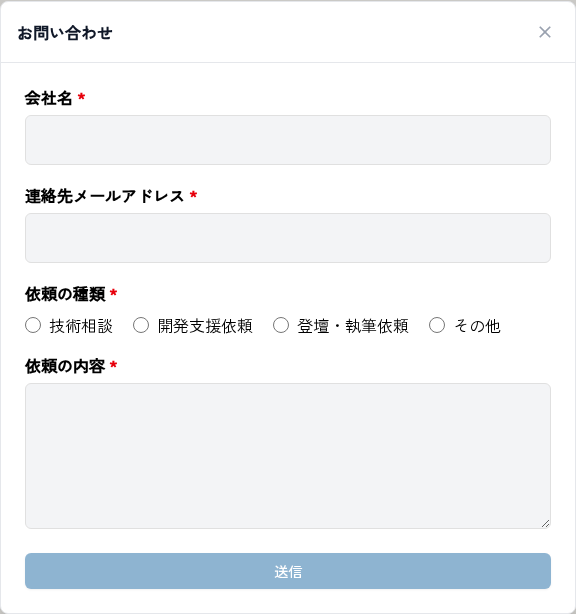
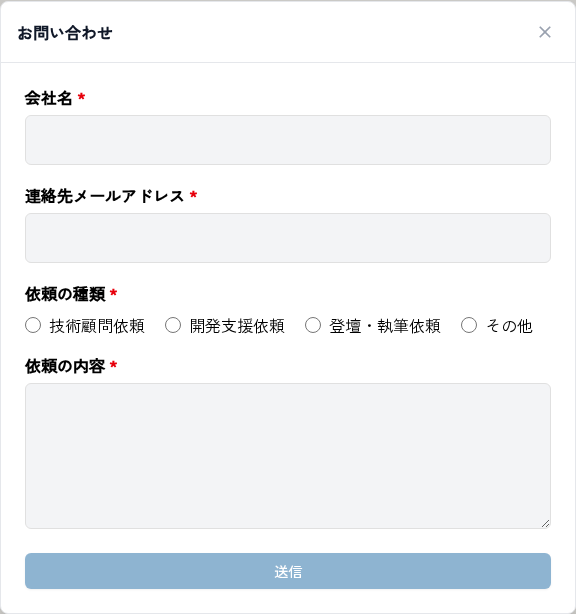
fix: replace contact consultation option (#1406)

Pull request: fix: replace contact consultation option
## Summary

- Replace the contact form request type `技術相談` with `技術顧問依頼` in the shared contact form option list.
- Update schema, route, Playwright, and VRT expectations so the rendered label and submitted value match the new option.
- Refresh the affected contact modal VRT snapshot.

Linear: HIR-83

## Validation

- `pnpm build`
- `pnpm test src/components/contactFormSchema.test.ts src/app/form/route.test.ts`
- `pnpm exec playwright test tests/contact-form.test.ts --project=chrome-routes`
- `pnpm typecheck`
- `pnpm fmt:check`
- Docker VRT: `pnpm exec playwright test tests/vrt-components.test.ts -g "Contact modal form" --project=chrome-vrt-components`


<!-- This is an auto-generated comment: release notes by coderabbit.ai -->

## Summary by CodeRabbit

* **Bug Fixes**
  * Updated the contact form’s request type label from「技術相談」to「技術顧問依頼」across the form, validation, and related screens.
  * Submission and preview checks now reflect the new label, keeping the displayed option consistent throughout the contact flow.
  * Visual and interaction checks were refreshed to match the updated wording.

<!-- end of auto-generated comment: release notes by coderabbit.ai -->

Changed region(s): [[0.2812, 0.4951, 0.9375, 0.557], [0.125, 0.4951, 0.25, 0.557]]

diff --git a/tests/contact-form.test.ts b/tests/contact-form.test.ts
@@ -38,7 +38,7 @@ test.describe("Contact form", () => {
     expect(requests[0]).toContain('name="company"');
     expect(requests[0]).toContain("Example Inc.");
     expect(requests[0]).toContain('name="content"');
-    expect(requests[0]).toContain("技術相談");
+    expect(requests[0]).toContain("技術顧問依頼");
     expect(requests[0]).toContain('name="comment"');
     expect(requests[0]).toContain(
       "Next.js のパフォーマンス改善について相談したいです。",
@@ -115,7 +115,7 @@ test.describe("Contact form", () => {
     const dialog = page.getByRole("dialog", { name: "お問い合わせ" });
     await dialog.getByLabel(/会社名/).fill("Example Inc.");
     await dialog.getByLabel(/連絡先メールアドレス/).fill("not-an-email");
-    await dialog.getByLabel(/技術相談/).check();
+    await dialog.getByLabel(/技術顧問依頼/).check();
     await dialog
       .getByLabel(/依頼の内容/)
       .fill("Next.js のパフォーマンス改善について相談したいです。");
@@ -134,11 +134,11 @@ test.describe("Contact form", () => {
     const dialog = page.getByRole("dialog", { name: "お問い合わせ" });
     const submitButton = dialog.getByRole("button", { name: "送信" });
 
-    await expect(dialog.getByLabel(/技術相談/)).toBeVisible();
+    await expect(dialog.getByLabel(/技術顧問依頼/)).toBeVisible();
     await expect(dialog.getByLabel(/開発支援依頼/)).toBeVisible();
     await expect(dialog.getByLabel(/登壇・執筆依頼/)).toBeVisible();
     await expect(dialog.getByLabel(/その他/)).toBeVisible();
-    await expect(dialog.getByLabel(/技術顧問依頼/)).toHaveCount(0);
+    await expect(dialog.getByLabel(/技術相談/)).toHaveCount(0);
     await expect(dialog.locator("legend", { hasText: "依頼の種類" })).toHaveCSS(
       "margin-bottom",
       "12px",
@@ -152,7 +152,7 @@ test.describe("Contact form", () => {
     await dialog.getByLabel(/連絡先メールアドレス/).fill("not-an-email");
     await expect(submitButton).toBeDisabled();
 
-    await dialog.getByLabel(/技術相談/).check();
+    await dialog.getByLabel(/技術顧問依頼/).check();
     await expect(submitButton).toBeDisabled();
 
     await dialog
@@ -246,7 +246,7 @@ async function openAndFillContactForm(page: Page) {
 
   await dialog.getByLabel(/会社名/).fill("Example Inc.");
   await dialog.getByLabel(/連絡先メールアドレス/).fill("[email redacted]");
-  await dialog.getByLabel(/技術相談/).check();
+  await dialog.getByLabel(/技術顧問依頼/).check();
   await dialog
     .getByLabel(/依頼の内容/)
     .fill("Next.js のパフォーマンス改善について相談したいです。");

diff --git a/src/components/contactFormSchema.test.ts b/src/components/contactFormSchema.test.ts
@@ -9,14 +9,14 @@ describe("contactFormSchema", () => {
     const result = contactFormSchema.safeParse({
       email: "[email redacted]",
       company: "Example Inc.",
-      content: "技術相談",
+      content: "技術顧問依頼",
       comment: "Next.js のパフォーマンス改善について相談したいです。",
     });
 
     expect(result.success).toBe(true);
   });
 
-  it.each(["技術相談", "開発支援依頼", "登壇・執筆依頼", "その他"])(
+  it.each(["技術顧問依頼", "開発支援依頼", "登壇・執筆依頼", "その他"])(
     "accepts %s as a contact type",
     (content) => {
       const result = contactFormSchema.safeParse({
@@ -53,7 +53,7 @@ describe("contactFormSchema", () => {
     const result = contactFormSchema.safeParse({
       email: "[email redacted]",
       company: "Example Inc.",
-      content: "技術顧問依頼",
+      content: "技術相談",
       comment: "Next.js のパフォーマンス改善について相談したいです。",
     });
 

diff --git a/src/app/form/route.test.ts b/src/app/form/route.test.ts
@@ -34,7 +34,7 @@ describe("POST /form", () => {
     const forwardedFormData = fetchMock.mock.calls[0]?.[1]?.body as FormData;
     expect(forwardedFormData.get("email")).toBe("[email redacted]");
     expect(forwardedFormData.get("company")).toBe("Example Inc.");
-    expect(forwardedFormData.get("content")).toBe("技術相談");
+    expect(forwardedFormData.get("content")).toBe("技術顧問依頼");
     expect(forwardedFormData.get("comment")).toBe(
       "Next.js のパフォーマンス改善について相談したいです。",
     );
@@ -79,7 +79,7 @@ function createContactFormData() {
 
   formData.append("email", "[email redacted]");
   formData.append("company", "Example Inc.");
-  formData.append("content", "技術相談");
+  formData.append("content", "技術顧問依頼");
   formData.append(
     "comment",
     "Next.js のパフォーマンス改善について相談したいです。",

diff --git a/src/components/contactFormSchema.ts b/src/components/contactFormSchema.ts
@@ -1,7 +1,7 @@
 import { z, type ZodError } from "zod";
 
 export const contactFormContentOptions = [
-  "技術相談",
+  "技術顧問依頼",
   "開発支援依頼",
   "登壇・執筆依頼",
   "その他",

diff --git a/tests/vrt-components.test.ts b/tests/vrt-components.test.ts
@@ -33,7 +33,7 @@ test.describe("Component VRT Tests", () => {
 
     const dialog = page.getByRole("dialog", { name: "お問い合わせ" });
     await expect(dialog).toBeVisible();
-    await expect(dialog.getByLabel(/技術相談/)).toBeVisible();
+    await expect(dialog.getByLabel(/技術顧問依頼/)).toBeVisible();
     await expect(dialog.getByLabel(/開発支援依頼/)).toBeVisible();
     await expect(dialog).toHaveScreenshot("contact-modal-form.png");
   });